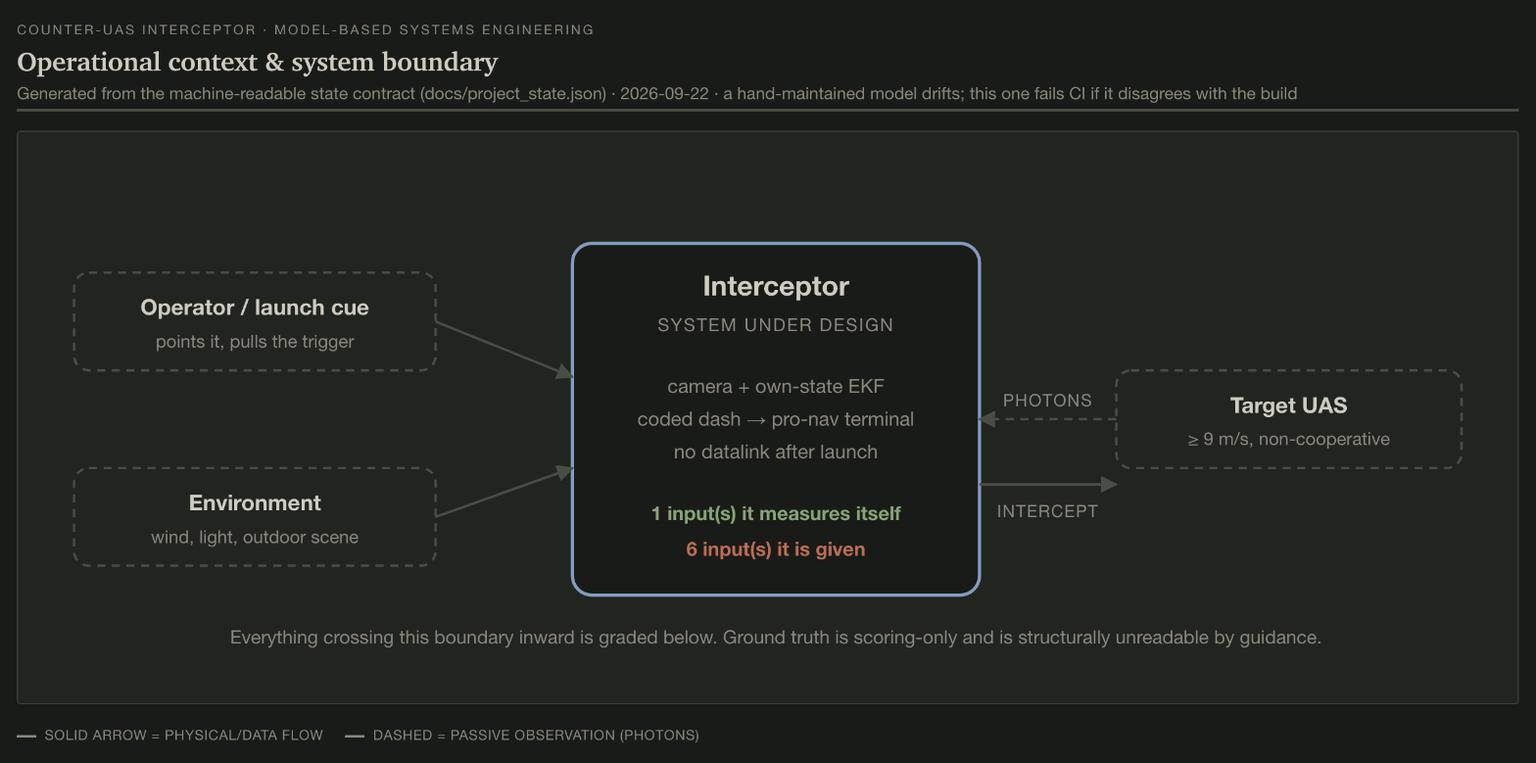
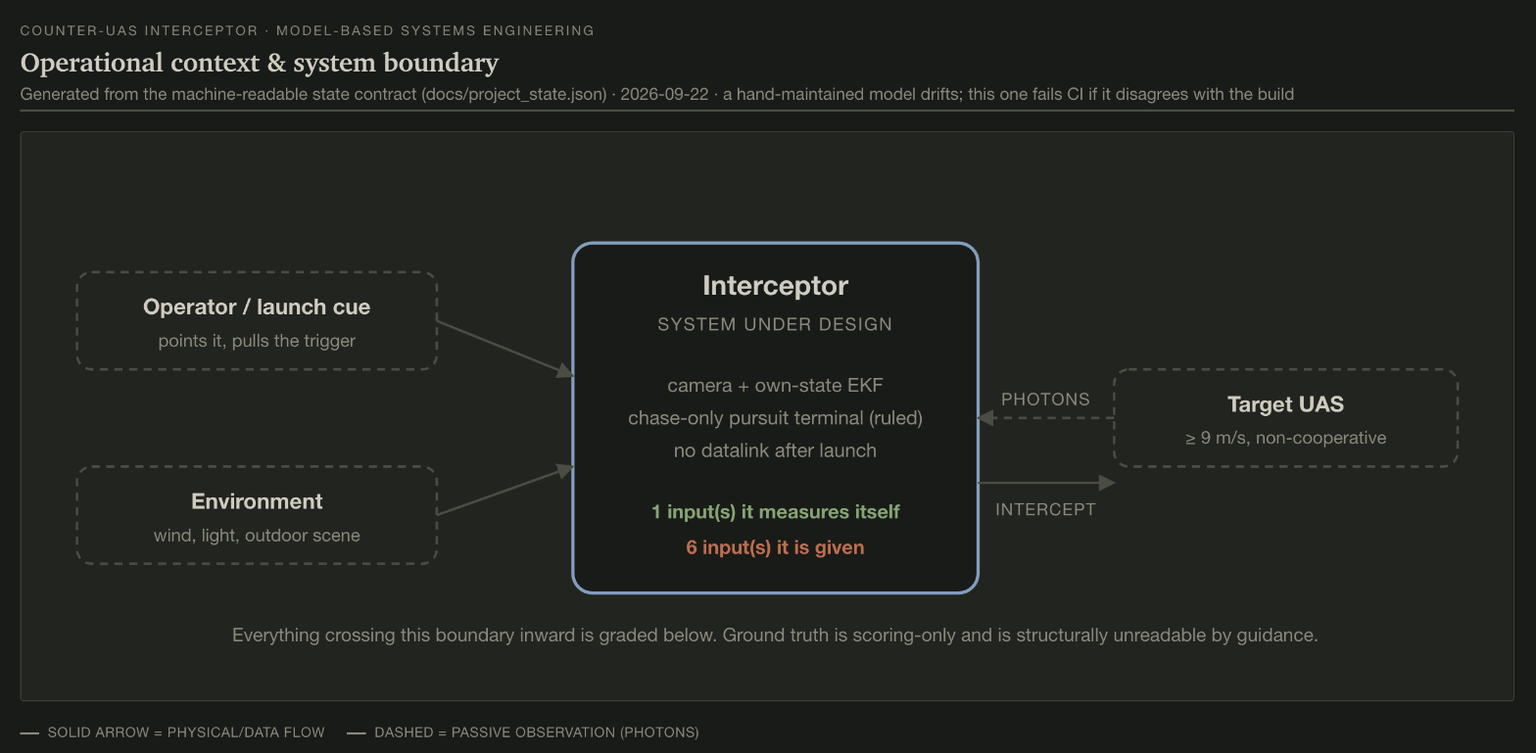
Propagate the chase-only ruling into the MBSE architecture surfaces
Builder question ('are the MBSE views current to project architecture?')
surfaced four stale strings: the View-1 boundary box said 'coded dash ->
pro-nav terminal' (hardcoded in render_mbse.py), the terminal stage was
still named/captioned as pro-nav, terminal.active said parity was pending
(it closed 2026-09-22), and goal.mission + the A5 architecture strip still
described the sprint-era NN + pro-nav loop. All rewritten to the ruled
chase-only pursuit design, with the honest nuance kept explicit: the coded
dash + stock pro-nav remain the FLYING DEFAULT until the Gazebo cross-check
passes. Drift checks green; both artifacts republished; both LinkedIn MBSE
captures re-shot from the updated render.

Claude-Session: https://claude.ai/code/session_015cvYQRRGxcQFP82RrdkZ6e

diff --git a/docs/mbse.html b/docs/mbse.html
@@ -148,14 +148,14 @@ footer{margin-top:64px;padding-top:20px;border-top:2px solid var(--line2);
 a{color:var(--accent)}
 a:focus-visible,summary:focus-visible{outline:2px solid var(--accent);outline-offset:2px}
 </style>
-<!-- MBSE-STATE-SHA256: 4f9279612418dfe5d465714d53dc28c2465ecd99577aba2fdecedb0e9a0d880d -->
+<!-- MBSE-STATE-SHA256: e826bbb985a687037cefb0fa43c912a35878b5efcaeccf878e228574dadf271c -->
 <div class="wrap">
 <header>
   <p class="eyebrow">Model-based systems engineering · generated views</p>
   <h1>Counter-UAS Interceptor — Systems Model</h1>
   <p class="sub">Seven views of <code class="mono">docs/project_state.json</code>
      · contract updated 2026-09-22 · build
-     <code class="mono">99a2327</code></p>
+     <code class="mono">bc1e2dd</code></p>
 </header>
 
 <div class="gen">
@@ -206,7 +206,7 @@ by the guidance path.</p>
 <text x="455" y="90" class="sysname" text-anchor="middle">Interceptor</text>
 <text x="455" y="112" class="syssub" text-anchor="middle">system under design</text>
 <text x="455" y="150" class="syssub2" text-anchor="middle">camera + own-state EKF</text>
-<text x="455" y="170" class="syssub2" text-anchor="middle">coded dash → pro-nav terminal</text>
+<text x="455" y="170" class="syssub2" text-anchor="middle">chase-only pursuit terminal (ruled)</text>
 <text x="455" y="190" class="syssub2" text-anchor="middle">no datalink after launch</text>
 <text x="455" y="228" class="syssub2 ok" text-anchor="middle">1 input(s) it measures itself</text>
 <text x="455" y="250" class="syssub2 warn" text-anchor="middle">6 input(s) it is given</text>
@@ -263,8 +263,8 @@ feed it. Border style encodes realization status.</p>
 <text x="38" y="294" class="nlabel">Acquisition &amp; handoff</text>
 <text x="38" y="322" class="nstat">Partially realized</text><text x="256" y="322" class="nid">handoff</text></g>
 <g class="node st-half-done"><rect x="24" y="374" width="246" height="78" rx="9"/>
-<text x="38" y="404" class="nlabel">Pro-nav camera-only</text>
-<text x="38" y="422" class="nlabel">terminal</text>
+<text x="38" y="404" class="nlabel">Camera-only terminal</text>
+<text x="38" y="422" class="nlabel">(chase pursuit)</text>
 <text x="38" y="438" class="nstat">Partially realized</text><text x="256" y="438" class="nid">terminal</text></g>
 <g class="node st-half-done"><rect x="24" y="490" width="246" height="78" rx="9"/>
 <text x="38" y="526" class="nlabel">Kill &amp; scoring</text>
@@ -299,7 +299,7 @@ proposal that violates one is rejected without further analysis.</p>
 <p class="lead">The core MBSE view: each function traced to the assumptions it consumes,
 the design decisions that shaped it, the quantities claimed for it, and the evidence
 behind them. Every link is stored in the contract — none is inferred here.</p>
-<div class="scroller"><table class="grid trace"><thead><tr><th>ID</th><th style="min-width:180px">Function</th><th>Status</th><th style="min-width:200px">Assumptions consumed</th><th style="min-width:220px">Design decisions</th><th style="min-width:150px">Quantities claimed</th><th style="min-width:190px">Evidence</th></tr></thead><tbody><tr><td class="mono id">launch_aim</td><td><b>Launch &amp; open-loop aim</b><div class="cap">Point the drone the right way before launch. Works in sim — but only with a perfect cue.</div></td><td><span class="pill st-implemented">Realized</span></td><td class="eviden"><span class="chip asm">launch-cue-error-free</span><span class="chip asm">bearing-latch-accuracy</span><span class="chip asm">trigger-latency-within-budget</span><span class="chip asm">dash-accel-profile</span><span class="chip asm">standby-yaw-hold</span><span class="chip asm">zero-wind-environment</span><span class="chip asm">go-bit-not-a-cue</span><span class="chip asm">real-flight-constants-sim-derived</span></td><td><div class="dq">How is the launch aimed with no datalink — onboard acoustic tracking, a pre-flight coded collision-lead heading, or a ground acoustic launch-cue?</div><div class="dq">RELEASE / LAUNCH MECHANISM: how is the interceptor deployed and the engagement triggered, and how (if at all) is a launch-time aim cue folded in without breaking jam-resistance — (A) an autonomous hand/loosely-mounted launcher that auto-fires on an NN lock, (B) a manual human-triggered coded dash, or (C) a smart launcher with a higher-res/zoom camera that transmits a live intercept cue? (Distinct from the sibling &#x27;how is the launch AIMED&#x27; decision; this is the deployment + trigger + cue-plumbing question.)</div></td><td class="eviden"><span class="chip num">Open-loop aim tolerance</span><span class="chip num">Pk@2.8 m, weave 12 m/s</span></td><td class="eviden"><span class="chip">ADR-0076 add #18b/#18c</span><span class="chip">Fable strategic review 2026-07-16 (docs/next.md ROUND-5)</span><span class="chip">docs/launch_mechanism_options.md (4-lens eval 2026-07-21)</span></td></tr><tr><td class="mono id">coded_dash</td><td><b>Coded open-loop dash</b><div class="cap">The pre-programmed sprint at the target. Surprisingly accurate alone: 0.73 m at 10 mph.</div></td><td><span class="pill st-implemented">Realized</span></td><td class="eviden"><span class="chip asm">launch-cue-error-free</span><span class="chip asm">dash-accel-profile</span><span class="chip asm">zero-wind-environment</span></td><td><div class="dq">How does the interceptor reach the terminal basket — a ground-sensor-cued dash with mid-course fusion, or a coded open-loop dash with no datalink?</div></td><td class="eviden"><span class="chip num">Open-loop aim tolerance</span><span class="chip num">Pk@2.8 m, weave 12 m/s</span></td><td class="eviden"><span class="chip">ADR-0076 add #18/#18e/#18g/#18h</span><span class="chip">docs/real_build_coded_dash.md</span><span class="chip">flight/guidance.py collision_lead_heading</span></td></tr><tr><td class="mono id">detector</td><td><b>Markerless seeker (NN detector)</b><div class="cap">The camera&#x27;s drone-spotter. Works when the target is in frame — but often it isn&#x27;t.</div></td><td><span class="pill st-half-done">Partially realized</span></td><td class="eviden"><span class="chip asm">sim-decode-range-transfers</span><span class="chip asm">sim-nn-outdoor-transfer</span><span class="chip asm">pi5-realtime-compute</span></td><td><div class="dq">What does the terminal seeker lock on — a markerless neural-net detector, the AprilTag fiducial, an IR/thermal seeker, or classical motion CV?</div><div class="dq">Which trained detector weights fly — v2, the v3 maneuvering-domain retrain, the rebal phantom-free retrain, or a real-data retrain?</div><div class="dq">How is the terminal lock held frame-to-frame — detect-then-track (NN seed + CSRT follow), NN-only, or a learned ViT tracker?</div></td><td class="eviden"><span class="chip num">In-flight approach recall</span><span class="chip num">Lean BOM, interceptor</span><span class="chip num">Real-data NN vs deployed sim-NN (held-out, mono)</span></td><td class="eviden"><span class="chip">ADR-0076 add #18i/#18k</span><span class="chip">ADR-0061 (v3 NULL)</span><span class="chip">ADR-0076 add #18d (rebal NULL in flight)</span></td></tr><tr><td class="mono id">pointing</td><td><b>Camera pointing / adaptive tilt</b><div class="cap">Tilting the camera so the target stays in the picture during the sprint. Half-built.</div></td><td><span class="pill st-half-done">Partially realized</span></td><td class="eviden"><span class="chip asm">zero-wind-environment</span></td><td><div class="dq">How does the camera point through the nose-down dash — fixed level (no tilt), a fixed up-tilt mount, or adaptive/active tilt?</div><div class="dq">Camera mount GEOMETRY to resolve the adaptive-tilt vs prop-clearance collision — flush-forward + tilt clamp, a longer forward boom, or an elevated centre-mast tilted up?</div><div class="dq">INTERCEPT-ACCURACY PROGRAM: how do we improve the camera-only RAM intercept (acquire earlier + drive terminal CPA to a ~0.3-0.5 m contact) of a &gt;=9 m/s target? (Heavy research synthesis 2026-07-21; the ranked levers below.)</div></td><td class="eviden"><span class="chip num">Open-loop aim tolerance</span></td><td class="eviden"><span class="chip">ADR-0065 (#46)</span><span class="chip">ADR-0067/0068 (fixed-tilt NO-adopt)</span><span class="chip">ADR-0076 add #18j-fix/#18k</span></td></tr><tr><td class="mono id">handoff</td><td><b>Acquisition &amp; handoff</b><div class="cap">The moment the camera takes over steering. Clean rule built; camera hasn&#x27;t earned it yet.</div></td><td><span class="pill st-half-done">Partially realized</span></td><td class="eviden"><span class="chip asm">camera-terminal-earns-handoff</span><span class="chip asm">cos-theta-beyond-32deg</span><span class="chip asm">sim-decode-range-transfers</span></td><td><div class="dq">How is the own-prop phantom (a high-confidence false detection reading ~1.5 m) kept from seeding a false handoff — appearance retrain, a range-plausibility gate, or hardware prop-clearance?</div></td><td class="eviden"><span class="chip num">Lean BOM, interceptor</span></td><td class="eviden"><span class="chip">ADR-0076 add #18f/#18g</span><span class="chip">ADR-0077 (NULL)</span><span class="chip">ADR-0076 add #18d</span></td></tr><tr><td class="mono id">terminal</td><td><b>Pro-nav camera-only terminal</b><div class="cap">Camera-steered final homing. The law works but hasn&#x27;t beaten the dash alone in any test.</div></td><td><span class="pill st-half-done">Partially realized</span></td><td class="eviden"><span class="chip asm">launch-cue-error-free</span><span class="chip asm">camera-terminal-earns-handoff</span><span class="chip asm">pk-proxy-means-kill</span><span class="chip asm">breakoff-rise-discriminator</span><span class="chip asm">real-flight-constants-sim-derived</span></td><td><div class="dq">Which terminal guidance law drives the camera-only intercept — pursuit, plain proportional navigation, PIP lead, accel-predictive APN, or Kalata-gain tracking?</div><div class="dq">Which target-state estimator feeds the guidance — the hand-set alpha-beta filter stack, or a covariance-weighted EKF?</div></td><td class="eviden"><span class="chip num">Open-loop aim tolerance</span><span class="chip num">Pk@2.8 m, weave 12 m/s</span><span class="chip num">Ram / kill radius (ratified)</span></td><td class="eviden"><span class="chip">ADR-0064 (billboard 72/72)</span><span class="chip">ADR-0076 add #18g/#18h (mirage control)</span><span class="chip">docs/real_build_coded_dash.md</span></td></tr><tr><td class="mono id">kill</td><td><b>Kill &amp; scoring</b><div class="cap">How we score a kill: contact within 0.35 m. So far 0 of 16 sim flights get that close.</div></td><td><span class="pill st-half-done">Partially realized</span></td><td class="eviden"><span class="chip asm">pk-proxy-means-kill</span><span class="chip asm">breakoff-rise-discriminator</span></td><td><div class="dq">What counts as success — a literal &lt;1 m CPA, a proximity-Pk-vs-radius curve, a binary kill on video, or an RTK-measured sub-meter number?</div></td><td class="eviden"><span class="chip num">Inside the contact radius (corrected ruler)</span><span class="chip num">Pk@2.8 m, weave 12 m/s</span><span class="chip num">Ram / kill radius (ratified)</span></td><td class="eviden"><span class="chip">ADR-0025</span><span class="chip">docs/hardware_order_list.md §0b/§0c</span></td></tr><tr><td class="mono id">real_data</td><td><b>Real-data capture -&gt; retrain pipeline</b><div class="cap">Record real outdoor footage, retrain the spotter on it. Built, not yet proven in flight.</div></td><td><span class="pill st-half-done">Partially realized</span></td><td class="eviden"><span class="chip asm">sim-nn-outdoor-transfer</span></td><td><span class="none">no decision recorded</span></td><td class="eviden"><span class="chip num">In-flight approach recall</span><span class="chip num">Real-data NN vs deployed sim-NN (held-out, mono)</span></td><td class="eviden"><span class="chip">docs/real_data_pipeline.md</span><span class="chip">ADR-0076 add #18k (demotion)</span><span class="chip">ADR-0061 (the anti-mirage validation rule)</span></td></tr><tr><td class="mono id">hardware</td><td><b>Real interceptor build (BOM)</b><div class="cap">The physical drones. Frame, flight controller, and Pi 5 in hand; assembly has begun.</div></td><td><span class="pill st-half-done">Partially realized</span></td><td class="eviden"><span class="chip asm">bearing-latch-accuracy</span><span class="chip asm">dash-accel-profile</span><span class="chip asm">cos-theta-beyond-32deg</span><span class="chip asm">sim-decode-range-transfers</span><span class="chip asm">go-bit-not-a-cue</span><span class="chip asm">pi5-realtime-compute</span><span class="chip asm">real-flight-constants-sim-derived</span></td><td><div class="dq">What compute flies the terminal seeker — Pi 5 CPU with the AprilTag baseline, Pi 5 + Hailo NPU with the markerless NN, a Pi Zero with classical CV, or a Jetson?</div></td><td class="eviden"><span class="chip num">Lean BOM, interceptor</span></td><td class="eviden"><span class="chip">docs/hardware_order_list.md §0/§0b/§0c</span><span class="chip">docs/next.md ROUND-5 (Pi5/HAT ruling, tripod test)</span></td></tr><tr><td class="mono id">sim_harness</td><td><b>Sim testbed &amp; evidence machine</b><div class="cap">The simulator and its anti-fooling checks — where every number so far comes from.</div></td><td><span class="pill st-implemented">Realized</span></td><td class="eviden"><span class="none">none recorded</span></td><td><div class="dq">Stay on Gazebo Harmonic + PX4 SITL, or pivot to a photoreal simulator (Isaac Sim/Pegasus, AirSim, Flightmare)?</div><div class="dq">What does the target look like — the flat billboard stand-in, or a proper 3D banking quad?</div></td><td class="eviden"><span class="none">none recorded</span></td><td class="eviden"><span class="chip">ADR-0072</span><span class="chip">ADR-0075</span><span class="chip">CLAUDE.md standing methodology rules</span></td></tr></tbody></table></div>
+<div class="scroller"><table class="grid trace"><thead><tr><th>ID</th><th style="min-width:180px">Function</th><th>Status</th><th style="min-width:200px">Assumptions consumed</th><th style="min-width:220px">Design decisions</th><th style="min-width:150px">Quantities claimed</th><th style="min-width:190px">Evidence</th></tr></thead><tbody><tr><td class="mono id">launch_aim</td><td><b>Launch &amp; open-loop aim</b><div class="cap">Point the drone the right way before launch. Works in sim — but only with a perfect cue.</div></td><td><span class="pill st-implemented">Realized</span></td><td class="eviden"><span class="chip asm">launch-cue-error-free</span><span class="chip asm">bearing-latch-accuracy</span><span class="chip asm">trigger-latency-within-budget</span><span class="chip asm">dash-accel-profile</span><span class="chip asm">standby-yaw-hold</span><span class="chip asm">zero-wind-environment</span><span class="chip asm">go-bit-not-a-cue</span><span class="chip asm">real-flight-constants-sim-derived</span></td><td><div class="dq">How is the launch aimed with no datalink — onboard acoustic tracking, a pre-flight coded collision-lead heading, or a ground acoustic launch-cue?</div><div class="dq">RELEASE / LAUNCH MECHANISM: how is the interceptor deployed and the engagement triggered, and how (if at all) is a launch-time aim cue folded in without breaking jam-resistance — (A) an autonomous hand/loosely-mounted launcher that auto-fires on an NN lock, (B) a manual human-triggered coded dash, or (C) a smart launcher with a higher-res/zoom camera that transmits a live intercept cue? (Distinct from the sibling &#x27;how is the launch AIMED&#x27; decision; this is the deployment + trigger + cue-plumbing question.)</div></td><td class="eviden"><span class="chip num">Open-loop aim tolerance</span><span class="chip num">Pk@2.8 m, weave 12 m/s</span></td><td class="eviden"><span class="chip">ADR-0076 add #18b/#18c</span><span class="chip">Fable strategic review 2026-07-16 (docs/next.md ROUND-5)</span><span class="chip">docs/launch_mechanism_options.md (4-lens eval 2026-07-21)</span></td></tr><tr><td class="mono id">coded_dash</td><td><b>Coded open-loop dash</b><div class="cap">The pre-programmed sprint at the target. Surprisingly accurate alone: 0.73 m at 10 mph.</div></td><td><span class="pill st-implemented">Realized</span></td><td class="eviden"><span class="chip asm">launch-cue-error-free</span><span class="chip asm">dash-accel-profile</span><span class="chip asm">zero-wind-environment</span></td><td><div class="dq">How does the interceptor reach the terminal basket — a ground-sensor-cued dash with mid-course fusion, or a coded open-loop dash with no datalink?</div></td><td class="eviden"><span class="chip num">Open-loop aim tolerance</span><span class="chip num">Pk@2.8 m, weave 12 m/s</span></td><td class="eviden"><span class="chip">ADR-0076 add #18/#18e/#18g/#18h</span><span class="chip">docs/real_build_coded_dash.md</span><span class="chip">flight/guidance.py collision_lead_heading</span></td></tr><tr><td class="mono id">detector</td><td><b>Markerless seeker (NN detector)</b><div class="cap">The camera&#x27;s drone-spotter. Works when the target is in frame — but often it isn&#x27;t.</div></td><td><span class="pill st-half-done">Partially realized</span></td><td class="eviden"><span class="chip asm">sim-decode-range-transfers</span><span class="chip asm">sim-nn-outdoor-transfer</span><span class="chip asm">pi5-realtime-compute</span></td><td><div class="dq">What does the terminal seeker lock on — a markerless neural-net detector, the AprilTag fiducial, an IR/thermal seeker, or classical motion CV?</div><div class="dq">Which trained detector weights fly — v2, the v3 maneuvering-domain retrain, the rebal phantom-free retrain, or a real-data retrain?</div><div class="dq">How is the terminal lock held frame-to-frame — detect-then-track (NN seed + CSRT follow), NN-only, or a learned ViT tracker?</div></td><td class="eviden"><span class="chip num">In-flight approach recall</span><span class="chip num">Lean BOM, interceptor</span><span class="chip num">Real-data NN vs deployed sim-NN (held-out, mono)</span></td><td class="eviden"><span class="chip">ADR-0076 add #18i/#18k</span><span class="chip">ADR-0061 (v3 NULL)</span><span class="chip">ADR-0076 add #18d (rebal NULL in flight)</span></td></tr><tr><td class="mono id">pointing</td><td><b>Camera pointing / adaptive tilt</b><div class="cap">Tilting the camera so the target stays in the picture during the sprint. Half-built.</div></td><td><span class="pill st-half-done">Partially realized</span></td><td class="eviden"><span class="chip asm">zero-wind-environment</span></td><td><div class="dq">How does the camera point through the nose-down dash — fixed level (no tilt), a fixed up-tilt mount, or adaptive/active tilt?</div><div class="dq">Camera mount GEOMETRY to resolve the adaptive-tilt vs prop-clearance collision — flush-forward + tilt clamp, a longer forward boom, or an elevated centre-mast tilted up?</div><div class="dq">INTERCEPT-ACCURACY PROGRAM: how do we improve the camera-only RAM intercept (acquire earlier + drive terminal CPA to a ~0.3-0.5 m contact) of a &gt;=9 m/s target? (Heavy research synthesis 2026-07-21; the ranked levers below.)</div></td><td class="eviden"><span class="chip num">Open-loop aim tolerance</span></td><td class="eviden"><span class="chip">ADR-0065 (#46)</span><span class="chip">ADR-0067/0068 (fixed-tilt NO-adopt)</span><span class="chip">ADR-0076 add #18j-fix/#18k</span></td></tr><tr><td class="mono id">handoff</td><td><b>Acquisition &amp; handoff</b><div class="cap">The moment the camera takes over steering. Clean rule built; camera hasn&#x27;t earned it yet.</div></td><td><span class="pill st-half-done">Partially realized</span></td><td class="eviden"><span class="chip asm">camera-terminal-earns-handoff</span><span class="chip asm">cos-theta-beyond-32deg</span><span class="chip asm">sim-decode-range-transfers</span></td><td><div class="dq">How is the own-prop phantom (a high-confidence false detection reading ~1.5 m) kept from seeding a false handoff — appearance retrain, a range-plausibility gate, or hardware prop-clearance?</div></td><td class="eviden"><span class="chip num">Lean BOM, interceptor</span></td><td class="eviden"><span class="chip">ADR-0076 add #18f/#18g</span><span class="chip">ADR-0077 (NULL)</span><span class="chip">ADR-0076 add #18d</span></td></tr><tr><td class="mono id">terminal</td><td><b>Camera-only terminal (chase pursuit)</b><div class="cap">Camera homing. Chase-only pursuit ruled; port matches prototype; Gazebo check open.</div></td><td><span class="pill st-half-done">Partially realized</span></td><td class="eviden"><span class="chip asm">launch-cue-error-free</span><span class="chip asm">camera-terminal-earns-handoff</span><span class="chip asm">pk-proxy-means-kill</span><span class="chip asm">breakoff-rise-discriminator</span><span class="chip asm">real-flight-constants-sim-derived</span></td><td><div class="dq">Which terminal guidance law drives the camera-only intercept — pursuit, plain proportional navigation, PIP lead, accel-predictive APN, or Kalata-gain tracking?</div><div class="dq">Which target-state estimator feeds the guidance — the hand-set alpha-beta filter stack, or a covariance-weighted EKF?</div></td><td class="eviden"><span class="chip num">Open-loop aim tolerance</span><span class="chip num">Pk@2.8 m, weave 12 m/s</span><span class="chip num">Ram / kill radius (ratified)</span></td><td class="eviden"><span class="chip">ADR-0064 (billboard 72/72)</span><span class="chip">ADR-0076 add #18g/#18h (mirage control)</span><span class="chip">docs/real_build_coded_dash.md</span></td></tr><tr><td class="mono id">kill</td><td><b>Kill &amp; scoring</b><div class="cap">How we score a kill: contact within 0.35 m. So far 0 of 16 sim flights get that close.</div></td><td><span class="pill st-half-done">Partially realized</span></td><td class="eviden"><span class="chip asm">pk-proxy-means-kill</span><span class="chip asm">breakoff-rise-discriminator</span></td><td><div class="dq">What counts as success — a literal &lt;1 m CPA, a proximity-Pk-vs-radius curve, a binary kill on video, or an RTK-measured sub-meter number?</div></td><td class="eviden"><span class="chip num">Inside the contact radius (corrected ruler)</span><span class="chip num">Pk@2.8 m, weave 12 m/s</span><span class="chip num">Ram / kill radius (ratified)</span></td><td class="eviden"><span class="chip">ADR-0025</span><span class="chip">docs/hardware_order_list.md §0b/§0c</span></td></tr><tr><td class="mono id">real_data</td><td><b>Real-data capture -&gt; retrain pipeline</b><div class="cap">Record real outdoor footage, retrain the spotter on it. Built, not yet proven in flight.</div></td><td><span class="pill st-half-done">Partially realized</span></td><td class="eviden"><span class="chip asm">sim-nn-outdoor-transfer</span></td><td><span class="none">no decision recorded</span></td><td class="eviden"><span class="chip num">In-flight approach recall</span><span class="chip num">Real-data NN vs deployed sim-NN (held-out, mono)</span></td><td class="eviden"><span class="chip">docs/real_data_pipeline.md</span><span class="chip">ADR-0076 add #18k (demotion)</span><span class="chip">ADR-0061 (the anti-mirage validation rule)</span></td></tr><tr><td class="mono id">hardware</td><td><b>Real interceptor build (BOM)</b><div class="cap">The physical drones. Frame, flight controller, and Pi 5 in hand; assembly has begun.</div></td><td><span class="pill st-half-done">Partially realized</span></td><td class="eviden"><span class="chip asm">bearing-latch-accuracy</span><span class="chip asm">dash-accel-profile</span><span class="chip asm">cos-theta-beyond-32deg</span><span class="chip asm">sim-decode-range-transfers</span><span class="chip asm">go-bit-not-a-cue</span><span class="chip asm">pi5-realtime-compute</span><span class="chip asm">real-flight-constants-sim-derived</span></td><td><div class="dq">What compute flies the terminal seeker — Pi 5 CPU with the AprilTag baseline, Pi 5 + Hailo NPU with the markerless NN, a Pi Zero with classical CV, or a Jetson?</div></td><td class="eviden"><span class="chip num">Lean BOM, interceptor</span></td><td class="eviden"><span class="chip">docs/hardware_order_list.md §0/§0b/§0c</span><span class="chip">docs/next.md ROUND-5 (Pi5/HAT ruling, tripod test)</span></td></tr><tr><td class="mono id">sim_harness</td><td><b>Sim testbed &amp; evidence machine</b><div class="cap">The simulator and its anti-fooling checks — where every number so far comes from.</div></td><td><span class="pill st-implemented">Realized</span></td><td class="eviden"><span class="none">none recorded</span></td><td><div class="dq">Stay on Gazebo Harmonic + PX4 SITL, or pivot to a photoreal simulator (Isaac Sim/Pegasus, AirSim, Flightmare)?</div><div class="dq">What does the target look like — the flat billboard stand-in, or a proper 3D banking quad?</div></td><td class="eviden"><span class="none">none recorded</span></td><td class="eviden"><span class="chip">ADR-0072</span><span class="chip">ADR-0075</span><span class="chip">CLAUDE.md standing methodology rules</span></td></tr></tbody></table></div>
 
 <h2><span class="vno">View 5</span>Assumption register</h2>
 <p class="lead">Sorted worst-first. An unrecorded assumption is this project&rsquo;s
@@ -321,8 +321,8 @@ not yet resolved. Kept visible so a refuted claim cannot quietly survive in the 
 <footer>
   Generated by <code class="mono">scripts/render_mbse.py</code> from
   <code class="mono">docs/project_state.json</code> (updated 2026-09-22).
-  Contract digest <code class="mono">4f9279612418</code> · build
-  <code class="mono">99a2327</code>.
+  Contract digest <code class="mono">e826bbb985a6</code> · build
+  <code class="mono">bc1e2dd</code>.
   Re-render with <code class="mono">python3 scripts/render_mbse.py</code>; drift fails
   <code class="mono">scripts/run_tests.sh</code>.
 </footer>

diff --git a/docs/dashboard.html b/docs/dashboard.html
@@ -540,7 +540,7 @@
   <div id="titleblock">
     <div class="cell"><span class="lbl">Project</span><span class="v">INTERCEPTOR-SIM</span></div>
     <div class="cell"><span class="lbl">Doc</span><span class="v">STATUS BOARD</span></div>
-    <div class="cell"><span class="lbl">Rev</span><span class="v"><!-- REV:BEGIN -->99a2327<!-- REV:END --></span></div>
+    <div class="cell"><span class="lbl">Rev</span><span class="v"><!-- REV:BEGIN -->bc1e2dd<!-- REV:END --></span></div>
     <div class="cell"><span class="lbl">State date</span><span class="v" id="tb-date">&mdash;</span></div>
     <div class="cell"><span class="lbl">Sheet</span><span class="v">1 / 4</span></div>
     <div class="cell"><span class="lbl">Status count</span><span class="v" id="tb-counts">&mdash;</span></div>
@@ -903,7 +903,7 @@
  "updated": "2026-09-22",
  "updated_by": "Fable 5 head session",
  "goal": {
-  "mission": "An imprecise coded-dash interceptor hits a moving target flying >=9 m/s (20 mph), outdoors, camera-only markerless terminal (no datalink; AprilTag sanctioned for calibration/training-labels and as the staged first-kill baseline seeker, never the deployed markerless seeker's input).",
+  "mission": "An imprecise cued interceptor hits a moving target flying >=9 m/s (20 mph), outdoors, camera-only terminal, no datalink after launch. Ruled engagement (ADR-0103/0105): chase-only pursuit -- no sprint; the coded dash + stock pro-nav remain the flying default only until the Gazebo cross-check passes. AprilTag flies the first kills (also sanctioned for calibration/training-labels); the markerless seeker is the end-state and never reads the tag.",
   "success": "BINARY KILL (contact), confirmed by seeker video + phone slow-mo + both aircraft ULogs. NOT a measured <1 m CPA (RTK cut, 2026-07-15). Sim proxy metric: Pk@2.5 m proximity kill (ADR-0025).",
   "evidence": [
    "docs/next.md ROADMAP R1-R7",
@@ -1558,38 +1558,38 @@
   ]
  },
  "architecture": {
-  "summary": "ONE NN, THE WHOLE FLIGHT: the detector runs on EVERY camera frame — there is no learned tracker (detect-then-track, NN acquire + CSRT follow, was TRIED and DROPPED: every tracker slips on the banking quad, NN-only won the paired A/B, ADR-0076 add #2). The 'tracking' that flies the intercept is PHYSICS — an alpha-beta filter plus proportional navigation — not a second network. Flight shape: coded open-loop dash (no datalink) -> 5-consecutive-detection streak hands off -> the closed loop below runs every frame to contact.",
+  "summary": "CHASE-ONLY, THE RULED ENGAGEMENT (ADR-0103/0105, builder 2026-09-17): after GO the vehicle flies Phase A -- a belief rendezvous to a point behind the target, seeded from the launch cue latched at trigger -- then Phase B closes on camera measurements at a few m/s of overtake. No sprint, no datalink after launch. The estimator is a relative-state Kalman filter hardened by the 2026-09-22 parity trace (true covariance Jacobian, capture-time attitude, yaw re-anchor, slant fix). The AprilTag is the first-kill seeker (Pi 5, 96.6 fps measured); the markerless NN remains the end-state and never reads the tag. The sprint-era loop (coded dash -> 5-detection streak handoff -> LOS-rate pro-nav, NN-only detector) is preserved in the stage notes and stays the FLYING DEFAULT until the Gazebo cross-check passes -- an honest gate, not drift.",
   "steps": [
    {
     "code": "DETECT",
-    "name": "NN, every frame",
-    "role": "Markerless YOLO drone_finetuned_quad_v2 @640 (conf 0.25) finds the target box in each camera frame; the AprilTag is only the staged first-kill baseline, never the markerless seeker's input."
+    "name": "tag decode, every frame",
+    "role": "AprilTag tag36h11 decoded on every camera frame (measured 96.6 fps on the real Pi 5); the markerless NN is deferred to the real-data retrain + Hailo phase and is never fed by the tag."
    },
    {
     "code": "MEASURE",
     "name": "box -> bearing + range",
-    "role": "Box centre + camera intrinsics (Brown-Conrady undistort) -> bearing; calibrated box WIDTH -> range."
+    "role": "Tag box + camera intrinsics -> bearing; box width -> range with the slant correction; converted using own attitude interpolated at frame-CAPTURE time (two of the four 2026-09-22 parity fixes)."
    },
    {
     "code": "ESTIMATE",
-    "name": "physics filter",
-    "role": "Full-attitude LOS derotation (FIX-A) + fixed-gain alpha-beta filters on angle/range: predict at 20 Hz, correct on each fresh detection (~14 Hz stream), coast through dropouts. PHYSICS, not a learned tracker."
+    "name": "relative-state KF",
+    "role": "Kalman filter on relative position + target velocity; delayed-measurement update couples position fixes into the velocity states (the fixed Jacobian), coasts through dropouts."
    },
    {
     "code": "GUIDE",
-    "name": "pro-nav, N=5",
-    "role": "Lateral accel = N x closing-speed x LOS-rate — the classic missile law; pursuit kept in-tree as the A/B baseline."
+    "name": "chase pursuit",
+    "role": "Phase A belief rendezvous -> Phase B camera close, speed-matched overtake; pursuit_mode suppresses the fly-by breakoff; a missed pass aborts to SAFE hover (ADR-0107)."
    },
    {
     "code": "ACT",
     "name": "MAVSDK setpoint",
-    "role": "Accel command -> velocity/attitude setpoint to PX4 OFFBOARD (the portable flight/ core — runs unchanged on the real Pi/Pixhawk)."
+    "role": "Velocity setpoints to PX4 OFFBOARD through the unmodified RealFlightSM -- the same flight/ core that runs on the real Pi/Pixhawk."
    }
   ],
   "evidence": [
-   "detector + terminal stages (this file)",
-   "ADR-0058 -> ADR-0076 add #2 (tracker tried, dropped — NN-only)",
-   "flight/guidance.py · flight/estimator.py · flight/geometry.py"
+   "ADR-0103/0105/0106/0107",
+   "isim/specs/parity_trace_2026-09-22.md",
+   "flight/pursuit_terminal.py · flight/deploy/real_flight.py"
   ]
  },
  "build_plan": {
@@ -1920,13 +1920,13 @@
   },
   {
    "id": "terminal",
-   "name": "Pro-nav camera-only terminal",
+   "name": "Camera-only terminal (chase pursuit)",
    "pos": [
     0,
     3
    ],
    "status": "half-done",
-   "active": "chase-only pursuit (ADR-0103/0105): flight/pursuit_terminal.py (relative-state Kalman filter, Phase A belief rendezvous -> Phase B camera close) is selectable on the real CLI with --terminal pursuit; GO enters ENGAGE directly (no sprint). Stock LOS-rate pro-nav remains the default until parity + Gazebo checks pass. Evidence: flight/tests/test_terminal_cli.py, ADR-0105.",
+   "active": "chase-only pursuit (ADR-0103/0105): flight/pursuit_terminal.py (relative-state Kalman filter, Phase A belief rendezvous -> Phase B camera close) is selectable on the real CLI with --terminal pursuit; GO enters ENGAGE directly (no sprint). Parity CLOSED 2026-09-22 (registered trace found four port defects; the fixed port matches/beats the prototype, adopt criterion met); stock LOS-rate pro-nav remains the FLYING DEFAULT only until the Gazebo cross-check passes. Evidence: flight/tests/test_terminal_cli.py, ADR-0105.",
    "note": "GUIDANCE IS VALIDATED; THE CAMERA-GUIDED 3D-QUAD KILL IS NOT. Validated: the law + architecture (billboard: Pk@2.8 m 72/72, ADR-0064; AprilTag regimes M4+). Not validated: every 'sub-meter 3D-quad kill' was an open-loop dash-ballistics MIRAGE (dash-only control 0.30 m ≈ with-terminal 0.29 m — the camera added ~nothing, add #18h). The block is UPSTREAM (detector recall + pointing), not guidance. UPDATE 2026-07-22 (Phase A Gazebo A/B): the pointing lever LIFTED 8-12 m real-detection recall 3.0%→35.4% and ENGAGE fired on real detections — pointing partially attacks the upstream block — but the CAMERA-DRIVEN kill is STILL UNCONFIRMED: the no-cheat audit (a/b) is clean, but check (c) camera-LOS coupling is weak and NO dash-only control was run, so per #18g/#18h this could still be dash ballistics. The #18h caution STANDS; a dash-only control arm is the anti-mirage gate before any 'camera-guided intercept exists' claim. (And miss got WORSE at 9 m/s — the accel-cap's closing-speed cost; see decision intercept_accuracy + gazebo_results.md.) | SETTLED 2026-07-24 (dash-only controls FLOWN — Adash/Bdash, antimirage_verdict.py, paired by run_idx): TWO findings. (1) The camera terminal is REAL — baseline Arm A l2r tightens the miss 4/4 paired flights (cam 0.68 vs dash-only 2.05 m, Δmed −1.18 m): the FIRST confirmed camera-DRIVEN 3D-quad intercept in this sim (scoped to line@9 +30bias flat-dash l2r; does NOT overturn #18h, whose weave geometry gave dash-only 0.30≈0.29). (2) The loft-dive+accel-cap LEVER BREAKS the terminal — Arm B camera-ON is WORSE than dash-only on 8/8 paired flights (l2r +0.86, r2l +1.54 m); the Phase A 'sub-1 m camera-tracked' wording for Arm B is REFUTED (Bdash dash-only 1.76/2.38 beats B camera 2.53/3.92). The accel-cap slows the close so much the framed terminal converges WORSE than dash ballistics; the framing win (recall 3%→35%) does NOT convert to a terminal win at 9 m/s. r2l also carries the ADR-0056 aspect bias (camera hurts even at baseline). ⇒ next = LIGHTER accel-cap θ≈30° / loft-only to recover closing speed (docs/flight_plan_candidates.md). | CORRECTION 2026-07-24 (independent Opus 5 review + validated ballistic model dash_cpa_model.py MAE 0.29 m): the 'accel-cap closing-speed cost dominates' attribution is CONFOUNDED. STANDS: A-l2r camera-DRIVEN (−1.18 m 4/4) and B-vs-Bdash camera-worse 8/8 (within-arm, aim common-mode). SOFTENED: the lever's net-negativity is confounded by a MIS-SIZED aim constant — collision_lead_heading solves a constant-speed triangle but the dash accelerates from rest, so the flown +30° bias is wrong (model-optimal ~64° at a=3.57, ~20° at a=10); and the accel-cap contributed the LEAST centring (+5° vs wedge +10°, loft +7.1°) while carrying all the cost. Camera-hurt is now MEASURED: terminal lambda−gtLOS = +9..+17° (l2r) / −17..−21° (r2l) = ADR-0056 aspect bias → Phase B FOV-hold is the WRONG lever (Arm B was centred −3.6° and still lost); the right lever is aspect-bias compensation (--terminal-bearing-bias-deg, code-gated). Decomposition arms pre-registered (G20dash/C/E, docs/flight_plan_candidates.md); adoption needs pooled ≥13/16. | G20 2026-07-24 (camera-live at CORRECT aim, n=8 vs G20dash): the terminal does NOT beat the well-aimed open-loop dash — combined camera median 1.02 m vs dash-only 0.75 m, tighter on only 2/8 (camera engaged 7/8). The measured aspect bias degrades a trajectory that correct pre-flight aim already made near-optimal. KEY REFRAME: in the line@9 aim-known regime the well-aimed open-loop dash is the strongest performer; the camera is a slight liability as built. HONEST SCOPE: the sim dash computes its lead from KNOWN target kinematics (assumes aim right); the camera's real value is aim-ERROR robustness (±30° envelope) + it could only BEAT 0.75 m with (1) aspect-bias compensation (--terminal-bearing-bias-deg, direction-keyed pre-flight constant, honesty-legal, UNBUILT) or (2) proven under deliberate aim error. Those two are the highest-value next steps. | COMPENSATION built + validation redirected 2026-07-24: the ADR-0056 aspect bias is largely a ~190 ms LOS-RATE LAG (self-explains the l2r/r2l sign flip; direction-agnostic knob --terminal-los-lag-ms). The stable direction-keyed constant existed ONLY in ARM B (accel-cap slows the approach -> many stable ticks); CG (framed, no cap) has an UNSTABLE bias (LOO +1%) so the constant is a predicted null there. Also FRAMING HURTS at correct aim (CG-777 1.92 m > G20 level 1.32 m). Decisive remaining test: GL = level + lag 190 vs the G20-777 baseline 1.32 m (pending clean idle). --terminal-bearing-bias/-los-lag built + committed (byte-identical off, 22 tests, honesty re-earned); measure_aspect_bias.py --loo reads a null offline for free. | GL NULL 2026-07-24 (lag knob on the level arm): combined 1.44 vs G20-777 1.32, 5/8 — fails the gate. It helps the aspect-biased r2l (2.13->1.80) but hurts the already-tight l2r (0.61->0.78); the in-flight lag isn't a clean constant (α-β absorbs a direction-varying share). BOTH terminal-precision compensations are now NULLs (constant = regime-confounded, lag = this) — the ADR-0056 terminal-bearing wall does not yield to a simple constant/lag (consistent with the ADR-0071 subpixel null). CONCLUSION: correct AIM is the dominant proven lever (0.75 m open-loop, DERIVED by ADR-0080); the camera does NOT defend imperfect aim (REFUTED in sim — it lost to its own dash-only control at 0°/5°/15° aim error, ADR-0076 add #18k-family); it does not beat a well-aimed dash; spend on aim + real-data detection, not terminal tricks. | ⛔ AIM-ERROR SWEEP COMPLETE 2026-07-24 — 'the camera defends imperfect aim' is REFUTED IN SIM, downgraded from settled. Camera vs its OWN dash-only twin, paired n=8 per cell, seed 123: 0° err camera 1.02 vs dash 0.71 (2/8) | 5° 0.58 vs 0.43 (0/8) | 15° 1.51 vs 1.43 (3/8). The camera NEVER clears the pre-registered ≥6/8 at any tested aim error. Do NOT read the pooled 15° number: l2r the camera IS starting to earn it (3/4 tighter, once −0.43 m) while r2l is catastrophic (+2.15, +2.12) — the ADR-0056 aspect bias alone drags it to null. That wall has now defeated the bias constant, the LOS-lag correction, subpixel bearing (ADR-0071) AND the entire aim-error rationale. SCOPE: this indicts the SIM's markerless seeker on the r2l aspect, not the camera-terminal architecture — first kills fly the AprilTag, and the real lever is the outdoor real-data detector (44.2% vs 1.1% recall on real imagery); if real data fixes the aspect bias the question reopens and this sweep is the pre-registered harness. BUILD CONSEQUENCE: ENGAGE on the markerless seeker is not justified by any sim evidence — gate it to the favourable aspect, run it in SHADOW until real data earns it, or hold it behind the tag baseline. | ✅ 2026-07-25 frozen_vworld FIX: the coded-dash --fpv terminal latched a ZERO horizontal-velocity vector whenever ENGAGE began inside TERMINAL_FREEZE_RANGE_M (the NN's short r_hat) — so the camera-arm sweep verdicts ('camera adds ~nothing', add #18h) were partly measured on a terminal that never steered. The latch now holds a real law-aware vector (PIP/pursuit/pronav each latch their own), audit_per_tick check (e) FAILS a zero-command run, and one SITL flight confirmed 0/104 ENGAGE ticks zero-command (published arms: up to 661/668). The camera-arm conclusions are DOWNGRADED to PENDING RE-FLY; the guidance-law validation and the AIM (dash-only) conclusions stand. The sim↔hw negative-r_hat divergence is FIXED (86d60b3, 2026-07-25): a diverged negative r_hat (the ADR-0041 post-CPA -12..-21 m class) can no longer ARM the coast — seeker_loop broken-track parity, truth-table + replay drills pin it. RE-FLY FLOWN + SCORED (2026-07-25 eve, all 40 flights, idle load, dash-only twins reused; full table docs/flight_plan_candidates.md RESULTS 2026-07-25): the PENDING RE-FLY verdicts RESOLVE to a CONFIRMATION -- the camera terminal does NOT earn its handoff at 0/5/15 deg aim error even when provably steering (audit (e): 0/674 pre-CPA ENGAGE ticks zero-command; cam-beats-twin 3/8, 1/8, 4/8 -- never near the pre-registered 6/8). One honest SOFTENING: at correct aim the camera arm is now ~PARITY with the open-loop dash (G20 med 0.895/0.750 vs the 0.75 floor; was 'slight liability' on the braking terminal), and G20-s777 median improved 1.316->0.750. The 190 ms LOS-lag comp is CONFIRMED NEGATIVE (GL 1.213 vs G20 0.750, 2/8), closing that lever. Dash-only conclusions (ADR-0080/0083, 0.71/0.43 m floor) never affected. Two adjudicated (c)-marginal flights (railed V_PERP_MAX lead / deliberate lag offset -- the ADR-0013 legitimate-lead class); the re-fly also surfaced + fixed two auditor blind spots (latched-coast exclusion cdffe12, lambda-winding azimuth lift 51d3441).",
    "evidence": [
     "ADR-0064 (billboard 72/72)",
@@ -1987,7 +1987,7 @@
      "note": "ADR-0103 \"chase only\": pursuit ported from the isim prototype into flight/pursuit_terminal.py (relative-state KF, reuses tag_terminal's box->NED geometry, not its filter tuning), wired into isim/flight_adapter.py (terminal=\"pursuit\"), and run end-to-end through the real state machine (acquires, tracks, closes range on a moving target). A pursuit_mode config flag suppresses the fly-by-tuned past-CPA recession breakoff without touching the contact/failsafe triggers. NOT done: the real-hardware CLI's belief seed (needs the dash-endpoint kinematics) and the A0-style numeric parity check against ADR-0103's own isim grid. docs/pursuit_port_2026-09-17.md."
     }
    ],
-   "caption": "Camera-steered final homing. The law works but hasn't beaten the dash alone in any test.",
+   "caption": "Camera homing. Chase-only pursuit ruled; port matches prototype; Gazebo check open.",
    "consumes": [
     "launch-cue-error-free",
     "camera-terminal-earns-handoff",

diff --git a/scripts/render_mbse.py b/scripts/render_mbse.py
@@ -282,7 +282,7 @@ def render_context_svg(state: dict) -> str:
         '<text x="455" y="90" class="sysname" text-anchor="middle">Interceptor</text>',
         '<text x="455" y="112" class="syssub" text-anchor="middle">system under design</text>',
         '<text x="455" y="150" class="syssub2" text-anchor="middle">camera + own-state EKF</text>',
-        '<text x="455" y="170" class="syssub2" text-anchor="middle">coded dash → pro-nav terminal</text>',
+        '<text x="455" y="170" class="syssub2" text-anchor="middle">chase-only pursuit terminal (ruled)</text>',
         '<text x="455" y="190" class="syssub2" text-anchor="middle">no datalink after launch</text>',
         f'<text x="455" y="228" class="syssub2 ok" text-anchor="middle">'
         f'{len(measured)} input(s) it measures itself</text>',
